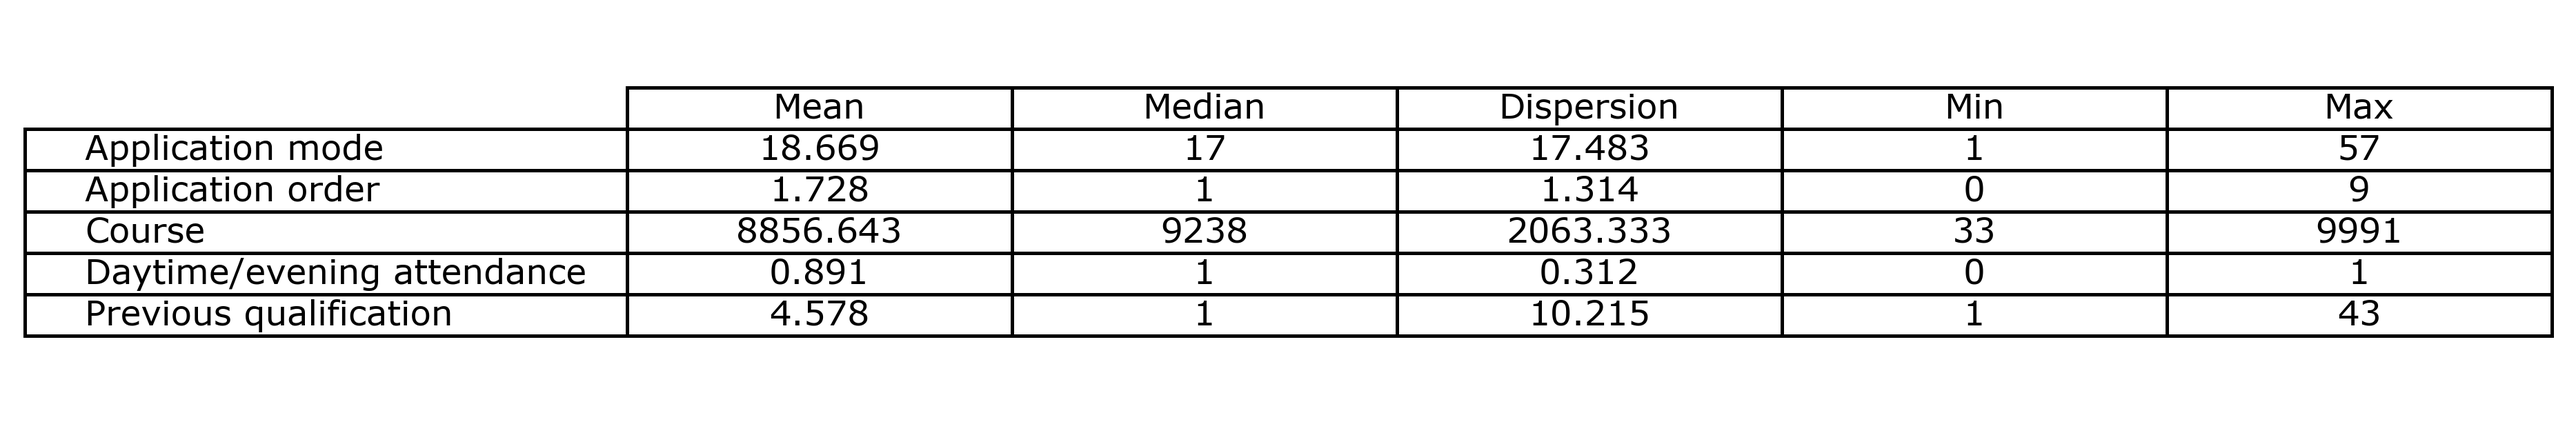
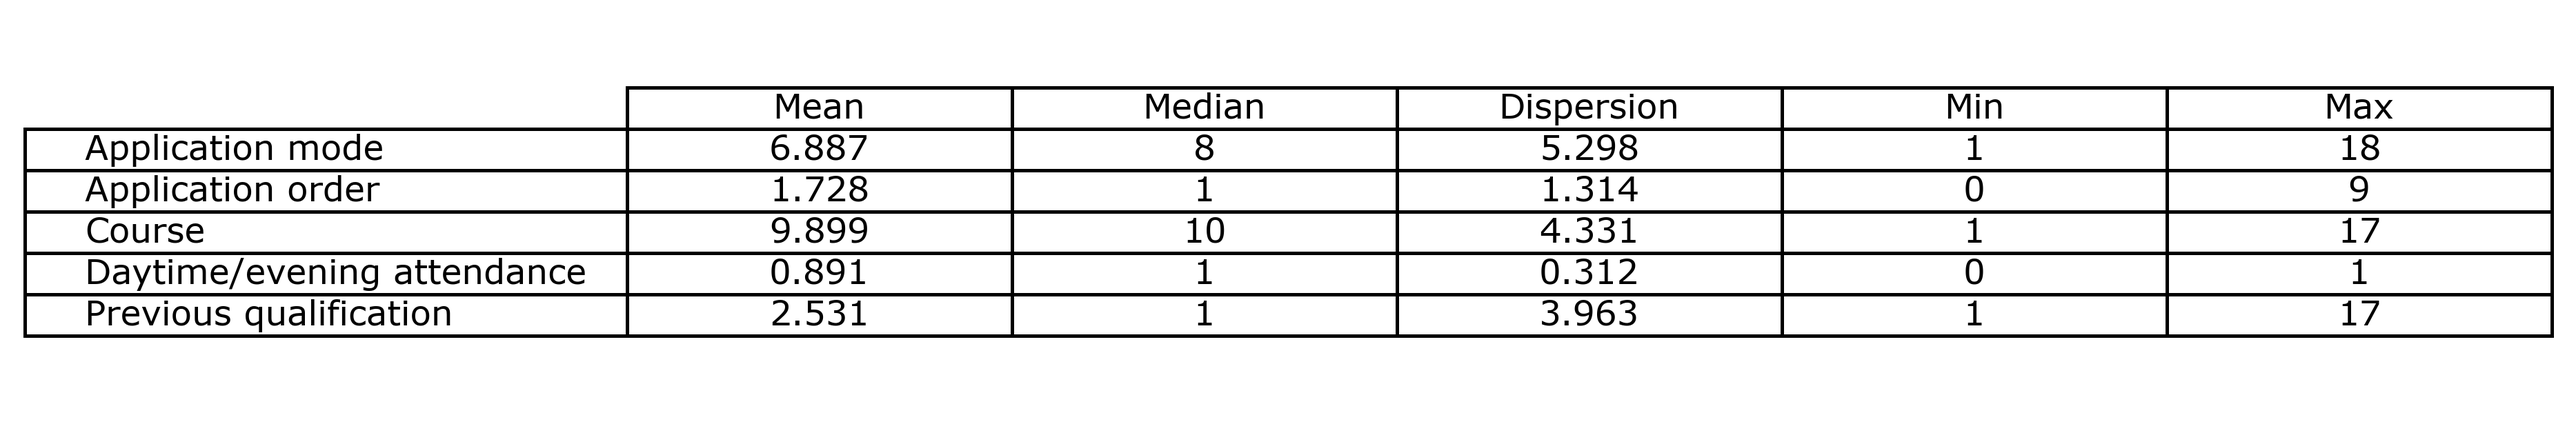
updated

diff --git a/Main.py b/Main.py
@@ -17,6 +17,7 @@ classLabels = csv.values[:,-1]
 classNames = sorted(set(classLabels))
 classDict = dict(zip(classNames, range(3)))
 
+
 # Extract vector y, convert to NumPy array
 y = np.asarray([classDict[value] for value in classLabels])
 df = np.array(csv.iloc[:,:-1])
@@ -42,18 +43,19 @@ macroeconomics_data = basic_sta_info.iloc[[33,34,35]]
 academic_data_enrollment = basic_sta_info.iloc[[1,2,3,4,5]]
 academic_data_1st = basic_sta_info.iloc[[21,22,23,24,25,26]]
 academic_data_2st = basic_sta_info.iloc[[27,28,29,30,31,32]]
-academic_data_target = pd.DataFrame(get_sta_info.basic_info(y).T ,index = ["Target"], columns = ['Mean','Median','Dispersion','Min','Max'])
-academic_data_target.iloc[0,2] = "Graduate"
-academic_data_target = academic_data_target.drop(columns = "Mean")
 
+target_basic = np.array([np.median(y, axis=0), np.std(y, axis=0)])
+academic_data_target = np.round(target_basic,3) # set number like 0.000
+academic_data_target = pd.DataFrame(academic_data_target.reshape(1, 2), index=['Target'], columns = ['Median', 'Dispersion'])
+academic_data_target.iloc[0,0] = "Graduate"
 # plot tables
 plot_sta.plot_table(demographic_data)
-# plot_sta.plot_table(socioeconomics_data)
-# plot_sta.plot_table(macroeconomics_data)
-# plot_sta.plot_table(academic_data_enrollment)
-# plot_sta.plot_table(academic_data_1st)
-# plot_sta.plot_table(academic_data_2st)
-# plot_sta.plot_table(academic_data_target)
+plot_sta.plot_table(socioeconomics_data)
+plot_sta.plot_table(macroeconomics_data)
+plot_sta.plot_table(academic_data_enrollment)
+plot_sta.plot_table(academic_data_1st)
+plot_sta.plot_table(academic_data_2st)
+plot_sta.plot_table(academic_data_target)
 
 
 #############
@@ -150,7 +152,7 @@ df = df.drop('Target', axis=1)
 df = df.drop('Previous qualification (grade)', axis=1)
 
 new_order = [#demographic_data#
-             'Marital status', 'Nacionality', 'Displaced','Gender','Age at enrollment','International',
+             'Marital status', 'Nationality', 'Displaced','Gender','Age at enrollment','International',
              #socioeconomics_data#
              "Mother's qualification","Father's qualification","Mother's occupation","Father's occupation",
              'Educational special needs','Debtor','Tuition fees up to date','Scholarship holder',

diff --git a/get_sta_info.py b/get_sta_info.py
@@ -4,7 +4,17 @@ import numpy as np
 def basic_info(matrix):
     
     matrix = np.array(matrix)
+
+
+    for col_index in [0,1,3,5,6,7,8,9,10,11]:
+        current_column = matrix[:, col_index]
+        unique_values = np.unique(current_column)
+        unique_values.sort()
+        value_to_rank = {value: rank +1 for rank, value in enumerate(unique_values)}
+        matrix[:, col_index] = np.vectorize(value_to_rank.get)(current_column)
+
     
+
     mean = np.mean(matrix, axis=0)
     median = np.median(matrix, axis=0)
     std_dev = np.std(matrix, axis=0)
